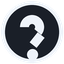
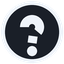
Updated readme

Changed region(s): [[0.4062, 0.5, 0.7188, 0.9375]]

diff --git a/README.md b/README.md
@@ -3,7 +3,7 @@
 A World of Warships mod that answers the AP overmatch question in both directions, on the ship
 markers, without you having to remember armour values.
 
-Two icons appear on enemy ship markers:
+Three icons can appear on an enemy ship marker:
 
 | Icon | Meaning |
 |---|---|
@@ -15,19 +15,19 @@ All three are 18 px and sit next to each other in the marker's status-icon row, 
 one indicator. The question mark can appear alongside either arrow: "I overmatch them, and
 whether they overmatch me is unknown" is a real state.
 
-Neither icon depends on the shell you have loaded. Both report what a main battery *can* do, so
+Neither arrow depends on the shell you have loaded. Both report what a main battery *can* do, so
 switching to HE or SAP changes nothing on screen. Read the amber icon as "my guns can overmatch
 that bow", not "this salvo will".
 
 ## Screenshots
 
 <!--
-Replace the three images below. Suggested shots:
+Replace the images below. Suggested shots:
   1. overmatch.png  - an enemy marker showing only the amber icon
   2. threat.png     - an enemy marker showing only the red icon
   3. both.png       - a marker showing both, ideally Yamato vs Yamato
-  4. unknown.png    - a marker showing the grey question mark, if you can find an untabled ship
-Optionally a fifth with BOWOM_DEBUG_TEXT enabled, showing the numeric readout.
+Optional extras, if you can get them: a marker showing the grey question mark, and one with
+BOWOM_DEBUG_TEXT enabled showing the numeric readout.
 -->
 
 **You can overmatch them**
@@ -73,8 +73,8 @@ decides whether bow-tanking works, and it is the thing this mod surfaces.
 
 - World of Warships, PC client.
 - Built and tested against **game version 15.7.0**, client build `13015811`.
-- Pure UI layer: two `.unbound` files and three PNGs. No Python component, no DLL injection,
-  no memory reading, no patched or replaced game files.
+- Pure UI layer: declarative `.unbound` markup and PNG images. No Python component, no DLL
+  injection, no memory reading, no patched or replaced game files.
 
 ## Installation
 
@@ -133,7 +133,7 @@ All in `res_mods/gui/unbound2/PnFMods/BowOvermatch.unbound`, at the top of the f
 
 | Constant | Default | Effect |
 |---|---|---|
-| `BOWOM_ICON_SIZE` | `18` | displayed size of both icons, in px |
+| `BOWOM_ICON_SIZE` | `18` | displayed size of all three icons, in px |
 | `BOWOM_DEBUG_TEXT` | `false` | set `true` to print `<my threshold>/<their bow> v <their threshold>/<my bow>` next to every enemy marker |
 | `BOWOM_RATIO` | `14.3` | the overmatch ratio, in case Wargaming ever changes it |
 
@@ -141,13 +141,6 @@ All in `res_mods/gui/unbound2/PnFMods/BowOvermatch.unbound`, at the top of the f
 behind both decisions, so a missing icon can always be traced to the arithmetic.
 
 `BOWOM_RATIO` is exposed because 14.3 is a game balance constant, not a law of physics.
-
-### Using the naval gun icon instead
-
-`icon_threat_gun.png` is an alternative for the red icon, drawn as a side-view naval gun. It
-needs roughly 26 px to read — below that the barrel and turret merge and it looks like a hammer.
-To use it, point `BowOvermatchThreatIcon` at that filename and raise `BOWOM_ICON_SIZE`, keeping
-in mind that constant sizes both icons.
 
 ## Compatibility
 
@@ -231,18 +224,14 @@ res_mods/
     icon_overmatch.png         amber, outgoing
     icon_threat.png            red, incoming
     icon_unknown.png           grey, armour value missing
-    icon_threat_gun.png        alternative artwork, not used by default
   gui/unbound2/PnFMods/
-    BowOvermatch.unbound       the hook, both comparisons, both icons - all the logic
-    BowOvermatchTable.unbound  generated armour table, 844 ships
-tools/
-  gen_bow_armour_table.py      DataEnum.py -> BowOvermatchTable.unbound
-  make_icon.py                 -> the icon PNGs
+    BowOvermatch.unbound       the hook, both comparisons, the icons - all the logic
+    BowOvermatchTable.unbound  armour table, 844 ships
 ```
 
 ## Updating the armour table
 
-`BowOvermatchTable.unbound` is generated, not hand-written. It currently holds **844 ships**:
+`BowOvermatchTable.unbound` holds **844 ships**:
 
 | Bow plating | Ships | | Bow plating | Ships |
 |---|---|---|---|---|
@@ -252,33 +241,32 @@ tools/
 | 16 mm | 156 | | 27 mm | 50 |
 | 19 mm | 189 | | 32 mm | 139 |
 
-To regenerate after new ships are released, edit the source armour data and run:
+When a new ship is released it will show the grey question mark until the table gains a row.
+Adding one by hand is a single line:
 
 ```
-python tools/gen_bow_armour_table.py
+	'IDS_PJSB018': 32,	# Yamato (EnumX)
 ```
 
-The generator reads a `DataEnum.py` armour dataset and validates every ship index against the
-client's own English text catalogue (`res/texts/en/LC_MESSAGES/global.mo`), which maps
-`IDS_<index>` to ship name and is therefore the authority on whether an index is real and which
-ship it belongs to. Paths are set at the top of the script.
+The key is `IDS_` followed by the ship's index — the internal identifier, not its display name.
+Every ship's index is in the client's own English text catalogue at
+`res/texts/en/LC_MESSAGES/global.mo`, which maps `IDS_<index>` to the ship's name and is the
+authority on whether an index is real and which ship owns it. Indices look like `PJSB018` or
+`PASC004`: `P`, a nation code, `S`, a type letter (`A` carrier, `B` battleship, `C` cruiser,
+`D` destroyer), then three digits.
 
-Corrections live in three tables at the top of the generator — `REINDEX`, `OVERRIDE_BOW` and
-`DROP` — keyed by `(line number, index as written)` so a fix cannot land on the wrong row. The
-source dataset is never modified.
+Three constraints when editing the file:
 
-The generator refuses to write anything if any of these fail:
+- **The value is bow plating in millimetres**, a positive integer. Zero would read as "not in
+  the table" and produce a question mark.
+- **One row per index.** A duplicate key silently overwrites, which is how the source dataset
+  managed to hide three ships behind other ships' indices.
+- **Keep the file pure ASCII.** Not one of the client's own `.unbound` files contains a single
+  non-ASCII byte, which is why ship names in the comments are transliterated (`Republique`,
+  `Cordoba`, `Zao`). A stray UTF-8 byte risks the file failing to parse, which would leave
+  `BOW_ARMOUR` undefined and the whole mod silently dead.
 
-- an index is not in the client catalogue
-- two rows claim the same index
-- a bow value is not a positive integer
-- a correction no longer matches a row, which means the source data changed underneath it
-- the output is not pure ASCII
-
-That last one matters: not one of the client's own `.unbound` files contains a single non-ASCII
-byte, so ship names in the generated comments are transliterated (`Republique`, `Cordoba`,
-`Zao`). A stray UTF-8 byte risks the file failing to parse, which would leave `BOW_ARMOUR`
-undefined and the mod silently dead.
+Opening an issue with the ship name and its bow plating is just as welcome.
 
 Ships missing from the table show the grey question mark rather than nothing. A silent absence
 would be indistinguishable from "no, you cannot overmatch that bow", which is a different and
@@ -316,7 +304,7 @@ opening an issue so the dataset gets it.
   either a ship with no main battery, which genuinely cannot overmatch anything, or a
   specification collection that has not populated yet, which resolves a moment into the battle.
   Neither deserves a question mark on every marker.
-- **The `createParamsForAllShipsInBattle` action is undocumented, and both icons now depend on
+- **The `createParamsForAllShipsInBattle` action is undocumented, and both arrows depend on
   it.** It populates the ship specification data that supplies every calibre in the mod, yours
   and theirs, and it is not in Wargaming's published Mods API documentation. This is the cost of
   the mod having no Python component: there is a single point of failure where there used to be
